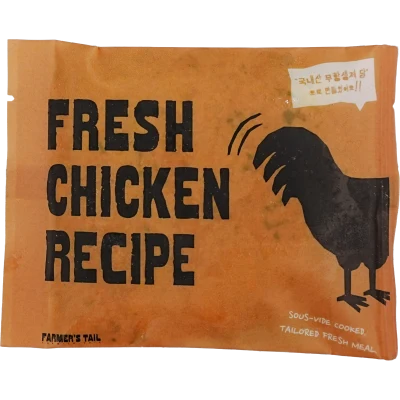
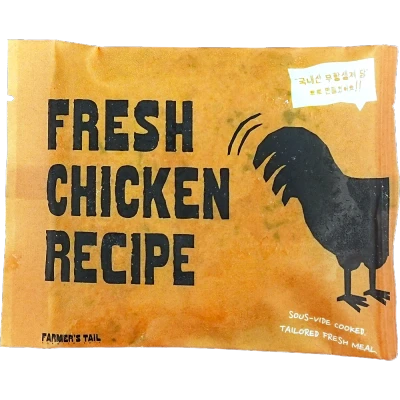
재료 표기 정정 + 패키지 사진 조명 보정 + 원형 이미지 안 뜨던 버그 (사장님 제보 5건)
1) 정제수 제거 — 실제 레시피에 안 들어간다. DB 원장 4종 어디에도 없는데
   앱 '재료 전체'가 붙이고 있었다(표시광고 문제).
2) 흑돼지 안심 → 뒷다리살 — 부위 변경. 앱·웹·상세·매트릭스 6파일 전수 교체.
3) 프리믹스 분말 → '파머스테일 뉴트리 코어(비타민·미네랄 프리믹스)'.
4) 카드 재료는 발췌라 끝에 '등' 표기 — 전체는 재료 전체 시트에.
5) 고객 문구의 내부 버전(v3) 제거. 버전은 algorithm_version 에만 남는다.
   테스트도 새 문구로 갱신 + 'v숫자 유출 금지' 단언 추가.

★원형 슬롯 사진이 안 뜨던 진짜 원인 (에뮬레이터 실측): loading='lazy' 가
안드로이드 WebView 에서 화면 안(top 462·inView)인데도 영영 로드되지 않았다
— naturalWidth 0·complete false 고정, eager 로 바꾸자 즉시 400x400 로드.
fetch 는 200 이라 서버·경로는 정상이었다.

패키지 사진 4종 화이트밸런스 보정(채널별 흰점 기준 배율) — 흑돼지의 회색
캐스트가 크래프트 베이지로, 전체적으로 빛바램 제거. 스토리지 이미지도 교체.

diff --git a/lib/recipe-detail.ts b/lib/recipe-detail.ts
@@ -29,7 +29,7 @@ const LEDGER_COMMON: LedgerGroup = {
         '오메가-3 지방산(EPA·DHA)을 채우는 오일이에요. 강아지는 오메가-3를 몸에서 충분히 만들지 못해서 음식으로 채워줘야 해요. 육류 위주 식단에서 부족해지기 쉬운 부분이라 매 레시피에 조금씩 넣었어요. 피부와 모질을 살피는 지방산으로 알려져 있어요.',
     },
     {
-      name: '미네랄·비타민 프리믹스',
+      name: '파머스테일 뉴트리 코어(비타민·미네랄 프리믹스)',
       note:
         '자연 원물만으로는 기준량을 안정적으로 채우기 어려운 미량 영양소를 보충하는 전용 믹스예요. 원물로 채울 수 있는 건 원물로 먼저 채우고, 프리믹스는 나머지를 메우는 역할만 해요. 순서가 반대가 되면 그건 화식이 아니라 사료니까요.',
     },
@@ -148,7 +148,7 @@ export const RECIPE_LEDGER: Record<WebRecipe['protein'], LedgerGroup[]> = {
       label: '주단백질',
       rows: [
         {
-          name: '흑돼지 안심',
+          name: '흑돼지 뒷다리살',
           note:
             '돼지에서 가장 기름기 적은 부위인 안심, 그중에서도 풍미가 진한 흑돼지를 골랐어요. 나이가 들어 후각이 무뎌진 아이도 그릇 앞으로 부르는 건 결국 향이거든요. 지방으로 향을 내는 대신 부위 자체의 풍미로 승부해요.',
         },
@@ -319,17 +319,17 @@ export const RECIPE_DETAIL: Record<WebRecipe['protein'], RecipeHero> = {
     eyebrow: 'Pork · 기호성·신경 케어',
     headline: ['입 짧은 아이도', '한 그릇 뚝딱'],
     lede:
-      '사료를 자주 거부하고 사람 음식만 찾는 까다로운 입맛, 그리고 나이 든 아이를 위한 기호성 레시피예요. 풍미 좋은 흑돼지 안심에 소화를 돕는 무를 더했어요.',
+      '사료를 자주 거부하고 사람 음식만 찾는 까다로운 입맛, 그리고 나이 든 아이를 위한 기호성 레시피예요. 풍미 좋은 흑돼지 뒷다리살에 소화를 돕는 무를 더했어요.',
     heroImg: '/recipe-pork.jpg',
     forWho: ['입맛 까다로운 아이', '7세 이상 노령기 아이', '소화가 약한 아이'],
     keyIngredients: [
-      { name: '흑돼지 안심', role: '풍미 좋은 저지방 부위 — 기호성' },
+      { name: '흑돼지 뒷다리살', role: '풍미 좋은 저지방 부위 — 기호성' },
       { name: '무(디아스타제)', role: '소화 효소 — 위장이 약한 노견을 위한 토핑' },
       { name: '심장', role: '자연 타우린 — 나이 든 아이의 심장 케어' },
     ],
     points: [
-      { title: '거부하기 힘든 풍미', body: '돼지 안심 특유의 진한 풍미로, 사료를 밀어내던 까다로운 입맛도 사로잡아요.' },
-      { title: '4종 중 신경 케어 최강', body: '돼지 안심에 자연 함유된 비타민 B1(티아민)이 4종 레시피 중 가장 풍부해요.' },
+      { title: '거부하기 힘든 풍미', body: '흑돼지 뒷다리살 특유의 진한 풍미로, 사료를 밀어내던 까다로운 입맛도 사로잡아요.' },
+      { title: '4종 중 신경 케어 최강', body: '흑돼지 뒷다리살에 자연 함유된 비타민 B1(티아민)이 4종 레시피 중 가장 풍부해요.' },
       { title: '노견의 소화를 배려', body: '무의 소화 효소로 위장 부담을 덜어, 나이 든 아이가 편하게 먹을 수 있게 했어요.' },
     ],
   },
@@ -390,7 +390,7 @@ export const RECIPE_STORY: Record<WebRecipe['protein'], RecipeStory> = {
     hand: '토토를 위해',
     paragraphs: [
       '토토는 올해 열한 살이에요. 예전엔 사료 봉지 소리만 나도 달려왔는데 요즘은 그릇 냄새를 한 번 맡고 돌아서는 날이 많아요. 보호자는 사료 위에 닭가슴살을 찢어 올려보고 북어 국물도 부어봤어요. 그날은 먹고, 다음 날은 또 안 먹고.',
-      '나이 든 아이가 밥을 미루는 데는 이유가 있어요. 후각이 무뎌지면 음식의 매력도 함께 무뎌지거든요. 그래서 이 레시피는 향에서 출발했어요. 풍미가 진한 흑돼지 안심을, 향이 날아가지 않는 수비드로 익혔어요. 지방으로 향을 내는 손쉬운 길 대신 부위 자체의 풍미를 골랐어요.',
+      '나이 든 아이가 밥을 미루는 데는 이유가 있어요. 후각이 무뎌지면 음식의 매력도 함께 무뎌지거든요. 그래서 이 레시피는 향에서 출발했어요. 풍미가 진한 흑돼지 뒷다리살을, 향이 날아가지 않는 수비드로 익혔어요. 지방으로 향을 내는 손쉬운 길 대신 부위 자체의 풍미를 골랐어요.',
       '위장이 약해진 아이를 위해 소화 효소가 든 무를 곁들였어요. 잔칫날 고기 요리에 무를 넣던 우리 식탁의 방식 그대로예요. 비타민B1(티아민)이 4종 가운데 가장 풍부한 레시피이기도 해요.',
     ],
   },

diff --git a/app/(main)/dogs/[id]/plan/PlanClient.tsx b/app/(main)/dogs/[id]/plan/PlanClient.tsx
@@ -56,7 +56,7 @@ const RECIPES: Record<string, { main: string; organs: string[]; toppings: string
   weight: { main: '닭가슴살', organs: ['닭간', '닭심장'], toppings: ['브로콜리', '블루베리'], veg: ['당근', '단호박', '시금치', '현미', '고구마'] },
   premium: { main: '한우 목심', organs: ['한우 간', '한우 심장'], toppings: ['비트', '블루베리'], veg: ['당근', '단호박', '시금치', '현미', '고구마'] },
   basic: { main: '오리 안심', organs: ['오리 간', '오리 심장'], toppings: ['애호박', '사과'], veg: ['당근', '단호박', '시금치', '현미', '고구마'] },
-  joint: { main: '돼지 안심', organs: ['돼지 간', '돼지 심장'], toppings: ['무', '양배추'], veg: ['당근', '단호박', '시금치', '현미', '고구마'] },
+  joint: { main: '흑돼지 뒷다리살', organs: ['돼지 간', '돼지 심장'], toppings: ['무', '양배추'], veg: ['당근', '단호박', '시금치', '현미', '고구마'] },
 }
 /** 카드 노출용 — 메인 단백질 + 내장 + 컨셉 토핑. */
 function cardIngredients(line: string): string[] {
@@ -67,7 +67,20 @@ function cardIngredients(line: string): string[] {
 function fullIngredients(line: string): string[] {
   const r = RECIPES[line]
   return r
-    ? [r.main, ...r.organs, ...r.veg, ...r.toppings, '올리브유', '연어유', '강황', '프리믹스 분말', '정제수']
+    // ★정제수 제거 (사장님 2026-08-25): 실제 레시피에 안 들어간다 — DB 원장
+    //   (products.ingredients) 4종 어디에도 없다. 고객이 보는 재료 목록에 없는
+    //   것을 적으면 표시광고 문제다. 강황은 4종 전부 실제로 들어간다(유지).
+    ? [
+        r.main,
+        ...r.organs,
+        ...r.veg,
+        ...r.toppings,
+        '올리브유',
+        '연어유',
+        '강황',
+        // 사장님 2026-08-25: 자체 배합이라 브랜드명으로 부른다.
+        '파머스테일 뉴트리 코어(비타민·미네랄 프리믹스)',
+      ]
     : []
 }
 
@@ -92,7 +105,7 @@ const RECIPE_DESCRIPTIONS: Record<string, string> = {
   basic:
     '닭·소가 잘 안 맞는 아이도 편하게 먹는 노블 단백질이에요. 흔한 알레르겐이 아니라 부담이 낮으면서도, 담백한 감칠맛이 있어 기호성이 좋아요. 무항생제 오리 안심을 씁니다.',
   joint:
-    '예민한 아이에게 부드러운 저알러지 단백질이에요. 소화가 편하고, 제주산 흑돼지 특유의 고소한 풍미로 잘 먹어요. 지방이 적은 안심 부위를 메인으로 담습니다.',
+    '예민한 아이에게 부드러운 저알러지 단백질이에요. 소화가 편하고, 제주산 흑돼지 특유의 고소한 풍미로 잘 먹어요. 지방이 적은 뒷다리살 부위를 메인으로 담습니다.',
 }
 
 // 레시피 제목 (사장님 지정 2026-07-13). line→단백질: weight=닭·premium=소·basic=오리·joint=돼지.
@@ -109,7 +122,7 @@ const RECIPE_WHY: Record<string, string> = {
   weight: '단백질이 진한 닭가슴살이라 근육 지키며 체중 관리에 좋아요',
   premium: '고단백·헴철분이 풍부해 활력과 근육에 좋아요',
   basic: '흔한 알레르겐이 아니라 예민한 속에도 부담이 적어요',
-  joint: '저지방 흑돼지 안심이라 부드럽고 소화가 편해요',
+  joint: '저지방 흑돼지 뒷다리살이라 부드럽고 소화가 편해요',
 }
 
 // 플랜 = 실제로 고르는 상품 페이지라 '자세하게'(배지·설명·안내). 분석 결과지는
@@ -858,7 +871,9 @@ function HeroCard({
         </div>
       )}
       <div style={{ fontSize: 10.5, color: 'var(--muted)', marginTop: 9, lineHeight: 1.55 }}>
-        {ings.join(', ')}
+        {/* 카드는 발췌(메인+내장+토핑)라 '등'을 붙여 전체가 아님을 밝힌다
+            (사장님 2026-08-25). 전체 목록은 '재료 전체' 시트에 있다. */}
+        {ings.join(', ')} 등
       </div>
       <div style={{ display: 'flex', alignItems: 'center', justifyContent: 'space-between', marginTop: 11, paddingTop: 11, borderTop: '1px solid var(--rule)' }}>
         <button

diff --git a/lib/personalization/v3/cutover.test.ts b/lib/personalization/v3/cutover.test.ts
@@ -75,7 +75,7 @@ describe('v3PicksToLineRatios — 단백질→라인 1:1', () => {
 })
 
 describe('decideFirstBox + v3 시드 (안전망 보존)', () => {
-  it('시드가 시작 비율로 사용됨 + goal- ruleId(애널리틱스) + v3 칩', () => {
+  it('시드가 시작 비율로 사용됨 + goal- ruleId(애널리틱스) + 베이스 칩', () => {
     const seed = v3PicksToLineRatios([pick('chicken', 1)]) // weight:1
     const f = decideFirstBox(input({ baseRatiosOverride: seed }))
     assert.ok(f.lineRatios.weight > 0)
@@ -83,7 +83,13 @@ describe('decideFirstBox + v3 시드 (안전망 보존)', () => {
       f.reasoning.some((r) => r.ruleId.startsWith('goal-')),
       'careGoal 추출용 goal- ruleId 보존',
     )
-    assert.ok(f.reasoning.some((r) => r.chipLabel === 'v3 맞춤 베이스'))
+    // 고객 화면 문구에서 내부 버전(v3) 제거 (사장님 2026-08-25) — 칩은 유지되
+    // 어야 하고 이름만 바뀐다. 버전은 dog_formulas.algorithm_version 에 남는다.
+    assert.ok(f.reasoning.some((r) => r.chipLabel === '맞춤 베이스'))
+    assert.ok(
+      !f.reasoning.some((r) => /v\d/.test(r.chipLabel) || /v\d/.test(r.trigger)),
+      '고객 문구에 내부 버전 표기가 새어나오면 안 된다',
+    )
     assert.ok(Math.abs(sumLines(f.lineRatios) - 1) < 0.001, '합 1 보존')
   })
 

diff --git a/app/(main)/dogs/[id]/order/OrderClient.tsx b/app/(main)/dogs/[id]/order/OrderClient.tsx
@@ -785,11 +785,15 @@ export default function OrderClient({
                     >
                       {packageImageForLine(it.line) ? (
                         // eslint-disable-next-line @next/next/no-img-element -- 46px 고정 슬롯, next/image 이득 없음
+                        // ★loading="lazy" 금지 (2026-08-25 에뮬레이터 실측):
+                        //   화면 안에 있어도(top 462, inView) 안드로이드 WebView
+                        //   에서 영영 로드되지 않았다 — naturalWidth 0·complete
+                        //   false 고정. eager 로 바꾸자 즉시 400x400 로드.
+                        //   사장님이 "사진이 안 뜬다"고 한 그 증상이다.
                         <img
                           src={packageImageForLine(it.line)!}
                           alt=""
                           className="ord-recipe-pkg"
-                          loading="lazy"
                           decoding="async"
                         />
                       ) : (

diff --git a/lib/personalization/firstBox.ts b/lib/personalization/firstBox.ts
@@ -337,9 +337,12 @@ function applyV3Base(
 
   const goal = input.careGoal ?? 'general_upgrade'
   reasoning.push({
-    trigger: '맞춤 추천(v3) 베이스',
+    // 고객 화면에 그대로 나가는 문구 — 내부 알고리즘 버전(v3)은 노출하지 않는다
+    // (사장님 2026-08-25). 버전은 dog_formulas.algorithm_version 에 남아 있고
+    // 어드민·이력 화면이 그걸 본다.
+    trigger: '맞춤 추천 베이스',
     action: `초기 비율: ${formatRatios(ratios)} (근거 기반 단백질 선택)`,
-    chipLabel: 'v3 맞춤 베이스',
+    chipLabel: '맞춤 베이스',
     priority: 1,
     ruleId: `goal-${goal}`,
   })

diff --git a/lib/sku-nutrition-matrix.ts b/lib/sku-nutrition-matrix.ts
@@ -97,7 +97,7 @@ export const SKU_NUTRITION: Record<SkuKey, SkuNutritionRow> = {
     ca_p_ratio: 1.10,
     epa_dha_pct: 0.17,
     selenium_mcg_per_kg: 986,
-    highlight_ko: '제주산 흑돼지 안심으로 부드럽고 잘 먹어요. 속이 예민한 아이·노령견에게.',
+    highlight_ko: '제주산 흑돼지 뒷다리살로 부드럽고 잘 먹어요. 속이 예민한 아이·노령견에게.',
     persona: ['allergy', 'sensitive', 'palatability'],
   },
   B05: {

diff --git a/lib/web-recipes.ts b/lib/web-recipes.ts
@@ -56,7 +56,7 @@ const WEB_RECIPE_COPY: Record<WebRecipe['protein'], Omit<WebRecipe, 'kcalPer100g
     name: '돼지 화식',
     concept: '기호성·신경 케어',
     recommendedFor: '노견 · 입 짧은 아이',
-    mainIngredients: '돼지안심 · 간 · 심장 · 무 · 당근 · 현미',
+    mainIngredients: '흑돼지 뒷다리살 · 간 · 심장 · 무 · 당근 · 현미',
   },
   beef: {
     protein: 'beef',

diff --git a/lib/personalization/v3/catalog.ts b/lib/personalization/v3/catalog.ts
@@ -98,7 +98,7 @@ export const BASE_SKUS: readonly BaseSku[] = [
       {
         text: '기호성이 높아 입맛이 까다롭거나 회복기인 아이에게',
         grade: 'positioning',
-        basis: '돼지 안심 기호성 — 매칭용(효능 아님)',
+        basis: '흑돼지 뒷다리살 기호성 — 매칭용(효능 아님)',
       },
     ],
     excludeIfAllergy: ['돼지고기'],
